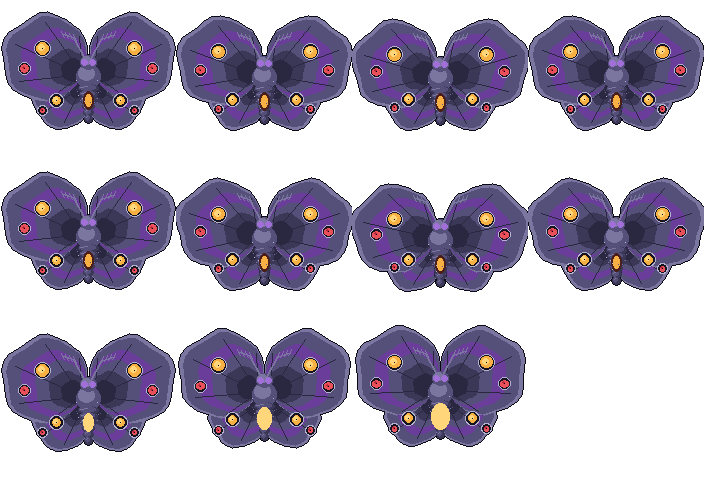
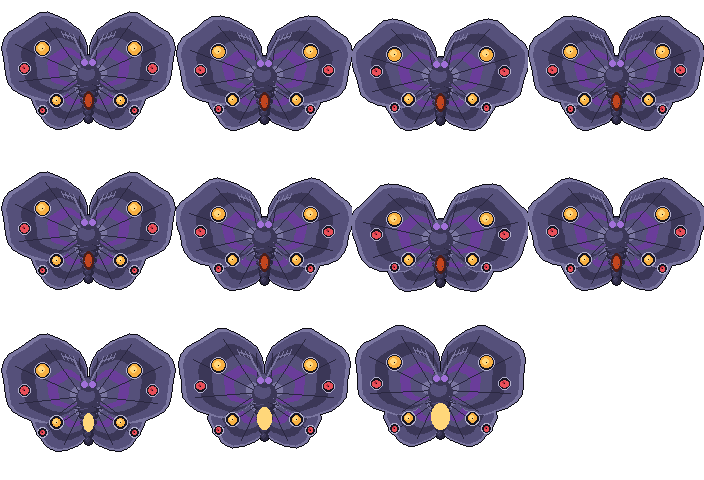
Matron round 3: filled wing roots with a violet gradient and fur, a darker mauve body with an ember belly, desaturated wings (creatures take the zone's prop lift), the boss light lights only the boss, a dimmer arena floor, and a stronger self-light for the Lamplighter in Moth Hollow
Claude-Session: https://claude.ai/code/session_01YABBJVPWvaqtn34m5VQVCp

diff --git a/art/enemies.py b/art/enemies.py
@@ -272,7 +272,7 @@ def crawler(pose: str, i: int) -> Spr:
 
 
 # ------------------------------------------------------------------ the Moth Matron (Act 1 boss)
-WING_BANDS = (("dusk3", 1.0), ("violet", 0.8), ("dusk3", 0.62), ("dusk2", 0.44), ("dusk1", 0.28))
+WING_BANDS = (("dusk3", 1.0), ("dusk2", 0.8), ("dusk3", 0.62), ("violet", 0.46), ("dusk3", 0.32), ("mist", 0.16))
 WING_POINTS = 28
 
 
@@ -296,6 +296,7 @@ def _shrink(pts: list, root: tuple, t: float) -> list:
 def _matron_wing(s: Spr, cx: float, cy: float, side: int, k: float) -> None:
     """One side of the Matron: rounded forewing and hindwing, shaded from a dusty pale edge in to a dark root in soft
     bands, veins fanning out, a scalloped edge, and false eyes that glow."""
+    rng = random.Random(11 + side)
     fore_root, hind_root = (cx + side * 6, cy - 4), (cx + side * 6, cy + 8)
     fore = _wing_shape(fore_root, side, 78, 1.1, 0.35 + 0.35 * (k - 0.8), 5)
     hind = _wing_shape(hind_root, side, 54, 1.0, -0.55 - 0.15 * (k - 0.8), 4)
@@ -303,6 +304,10 @@ def _matron_wing(s: Spr, cx: float, cy: float, side: int, k: float) -> None:
         s.poly(wing, "mist")
         for c, t in WING_BANDS:
             s.poly(_shrink(wing, root, t * 0.95), c)
+        for _ in range(14):                                    # fur over the wing root
+            a = rng.uniform(0, math.tau)
+            rr = rng.uniform(2, 9)
+            s.px(root[0] + side * abs(math.cos(a)) * rr, root[1] + math.sin(a) * rr, rng.choice(["dusk3", "mist", "dusk2"]))
         for j in range(4, WING_POINTS - 3, 5):                 # veins from the root to the edge
             tip = wing[j]
             s.line([root, (root[0] * 0.15 + tip[0] * 0.85, root[1] * 0.15 + tip[1] * 0.85)], "dusk1")
@@ -318,22 +323,22 @@ def _matron_wing(s: Spr, cx: float, cy: float, side: int, k: float) -> None:
 def _matron_body(s: Spr, cx: float, cy: float, rnd: random.Random) -> None:
     """A fuzzy moth body: thorax and a segmented abdomen in dusty mauve, lit from above, dark underneath; only a
     soft glow of stolen light shows through the belly."""
-    s.ellipse(cx, cy - 2, 12, 12, "dusk3")                    # thorax
-    s.ellipse(cx - 2, cy - 5, 8, 7, "mist")
+    s.ellipse(cx, cy - 2, 12, 12, "dusk2")                    # thorax
+    s.ellipse(cx - 2, cy - 5, 8, 7, "dusk3")
     for seg in range(6):                                      # abdomen segments, narrowing
         y = cy + 10 + seg * 6
         w = 10 - seg * 1.2
-        s.ellipse(cx, y, w, 4, "dusk2")
-        s.ellipse(cx - 1, y - 1, w - 2, 3, "dusk3")
-        s.line([(cx - w + 2, y - 1), (cx - 1, y - 2)], "mist")
+        s.ellipse(cx, y, w, 4, "dusk1")
+        s.ellipse(cx - 1, y - 1, w - 2, 3, "dusk2")
+        s.line([(cx - w + 2, y - 1), (cx - 1, y - 2)], "dusk3")
     s.ellipse(cx, cy + 22, 5, 9, "ember_dk")
-    s.ellipse(cx, cy + 22, 3, 6, "amber", glow=True)            # the soft belly glow
+    s.ellipse(cx, cy + 22, 3, 6, "ember", glow=True)            # the soft belly glow
     for _ in range(26):                                       # fuzz along the body's edge
         a = rnd.uniform(0, math.tau)
         rr = rnd.uniform(9, 13)
-        s.px(cx + math.cos(a) * rr, cy + 6 + math.sin(a) * rr * 2.0, rnd.choice(["mist", "dusk3", "pale"]))
-    s.ellipse(cx, cy - 16, 8, 7, "dusk3")                     # head
-    s.ellipse(cx - 2, cy - 18, 5, 4, "mist")
+        s.px(cx + math.cos(a) * rr, cy + 6 + math.sin(a) * rr * 2.0, rnd.choice(["dusk3", "dusk2", "mist"]))
+    s.ellipse(cx, cy - 16, 8, 7, "dusk2")                     # head
+    s.ellipse(cx - 2, cy - 18, 5, 4, "dusk3")
 
 
 def matron(pose: str, i: int) -> Spr:
@@ -354,7 +359,7 @@ def matron(pose: str, i: int) -> Spr:
     if pose == "attack":
         s.ellipse(cx, cy + 22, 5 + i * 2, 9 + i * 2, "gold", glow=True)
     s.outline()
-    s.recolor_edge(0, -1, "pale", only={"mist", "dusk3"})
+    s.recolor_edge(0, -1, "mist", only={"dusk3", "dusk2"})
     return s
 
 
